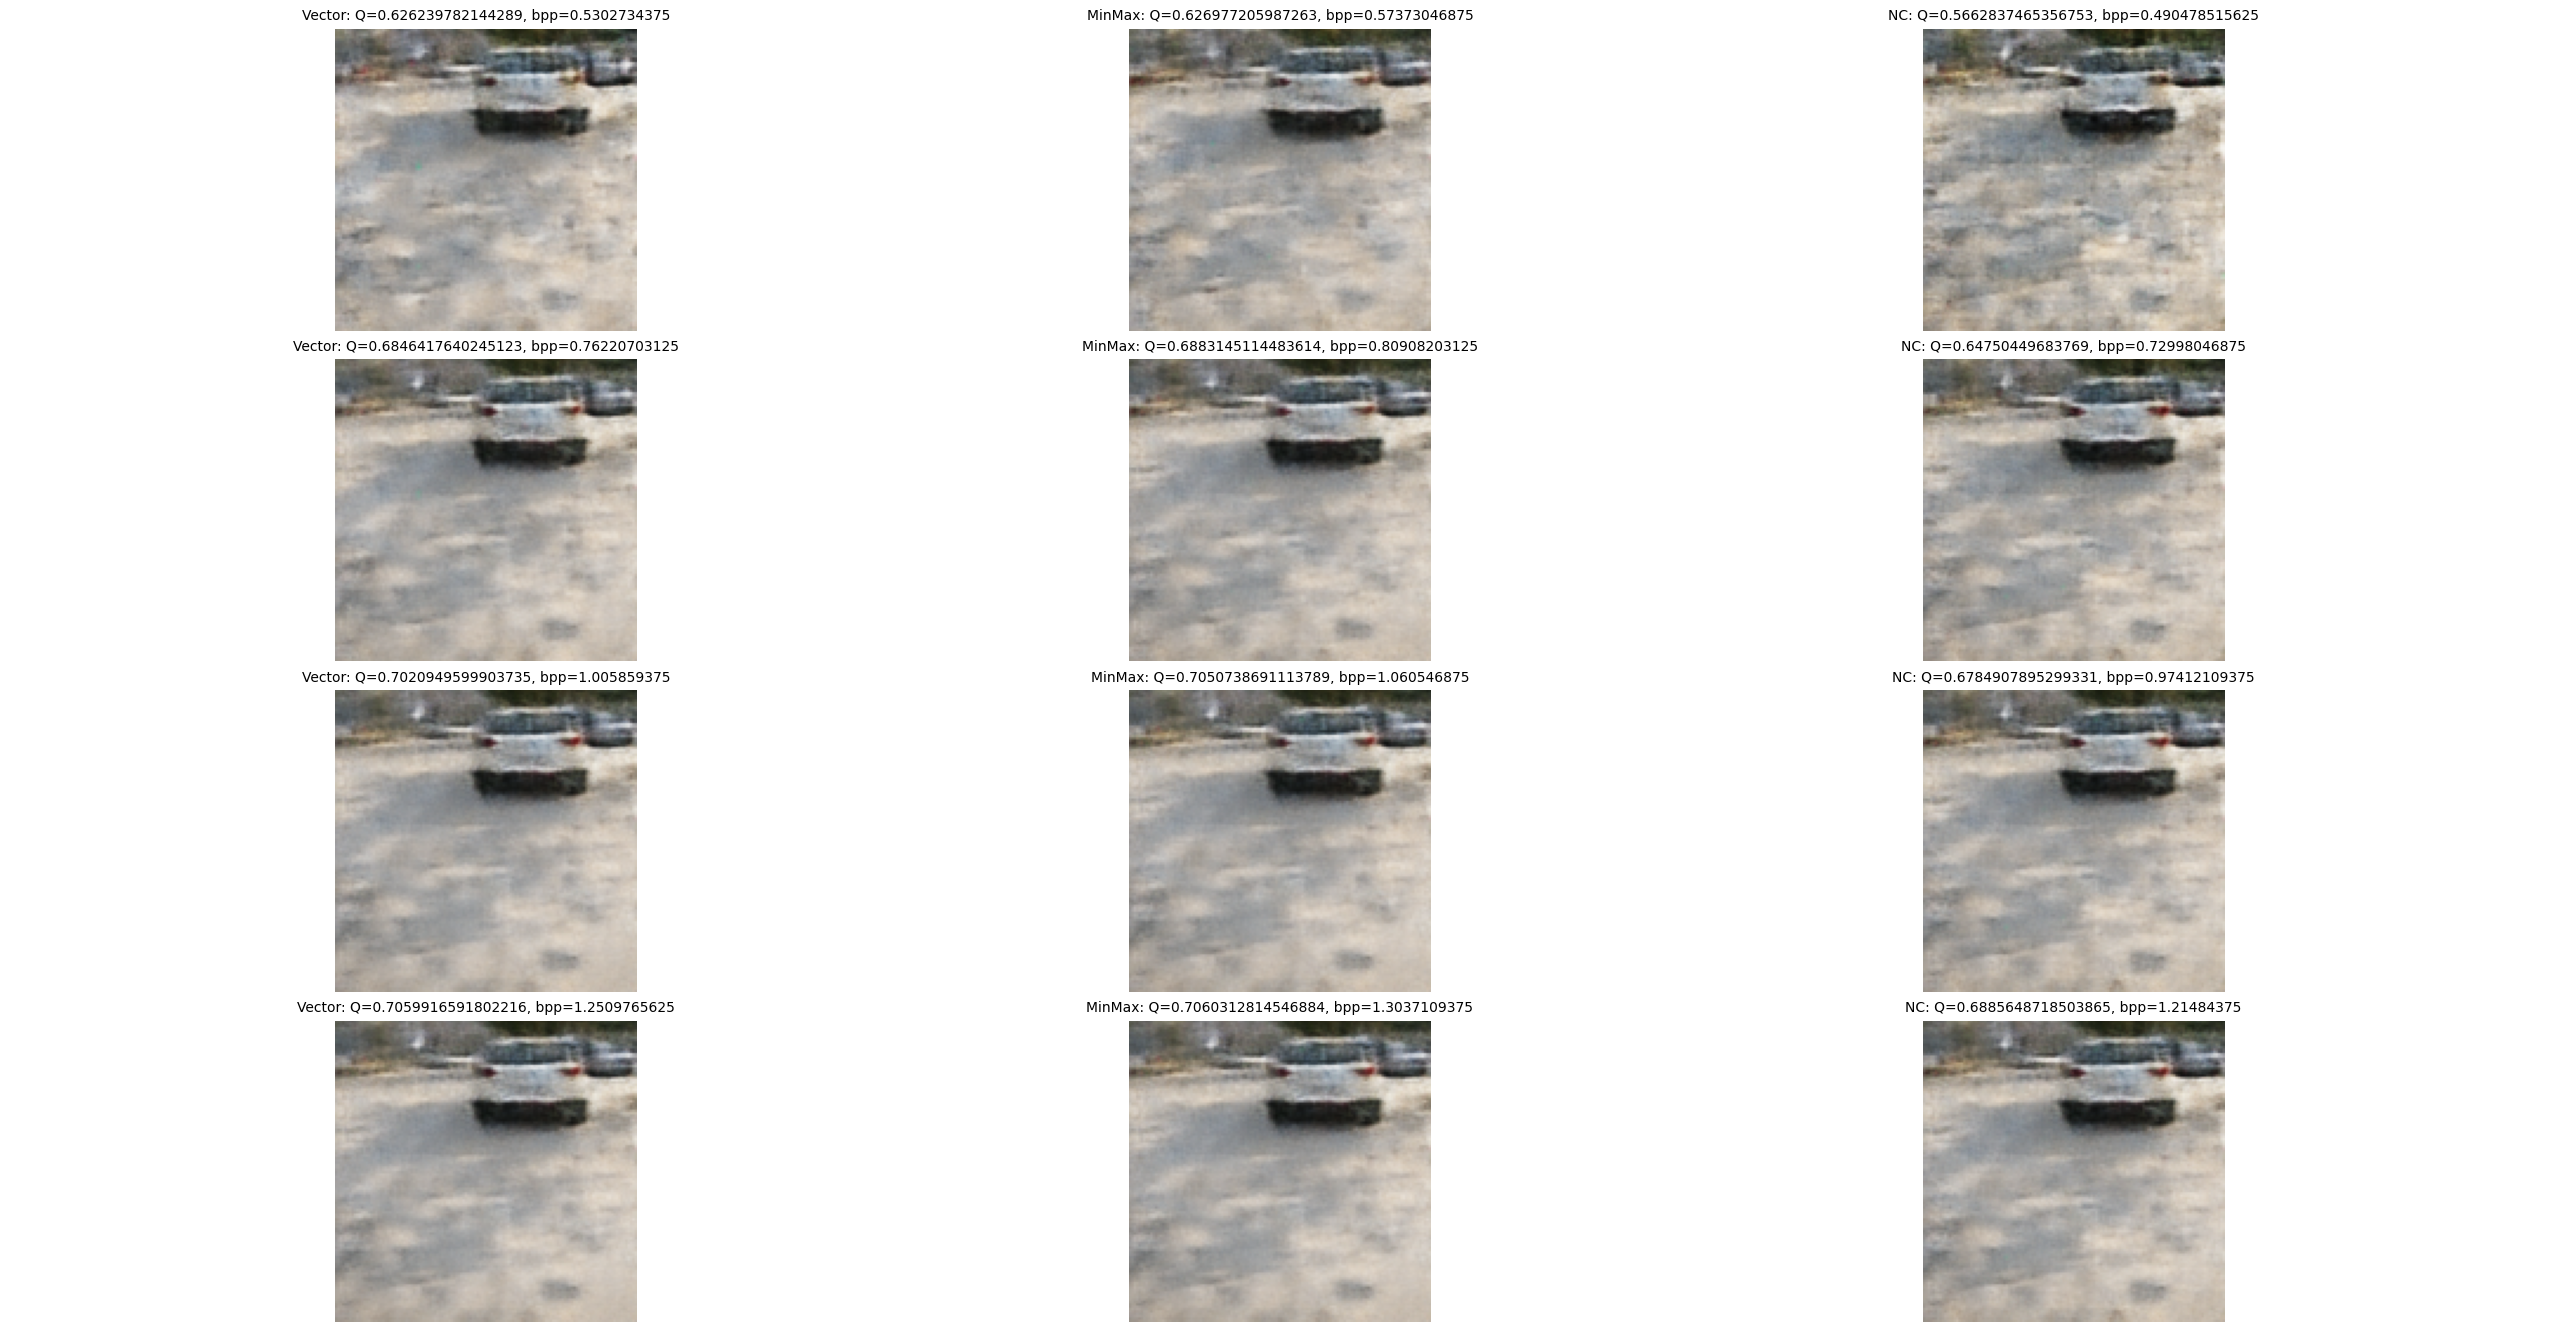
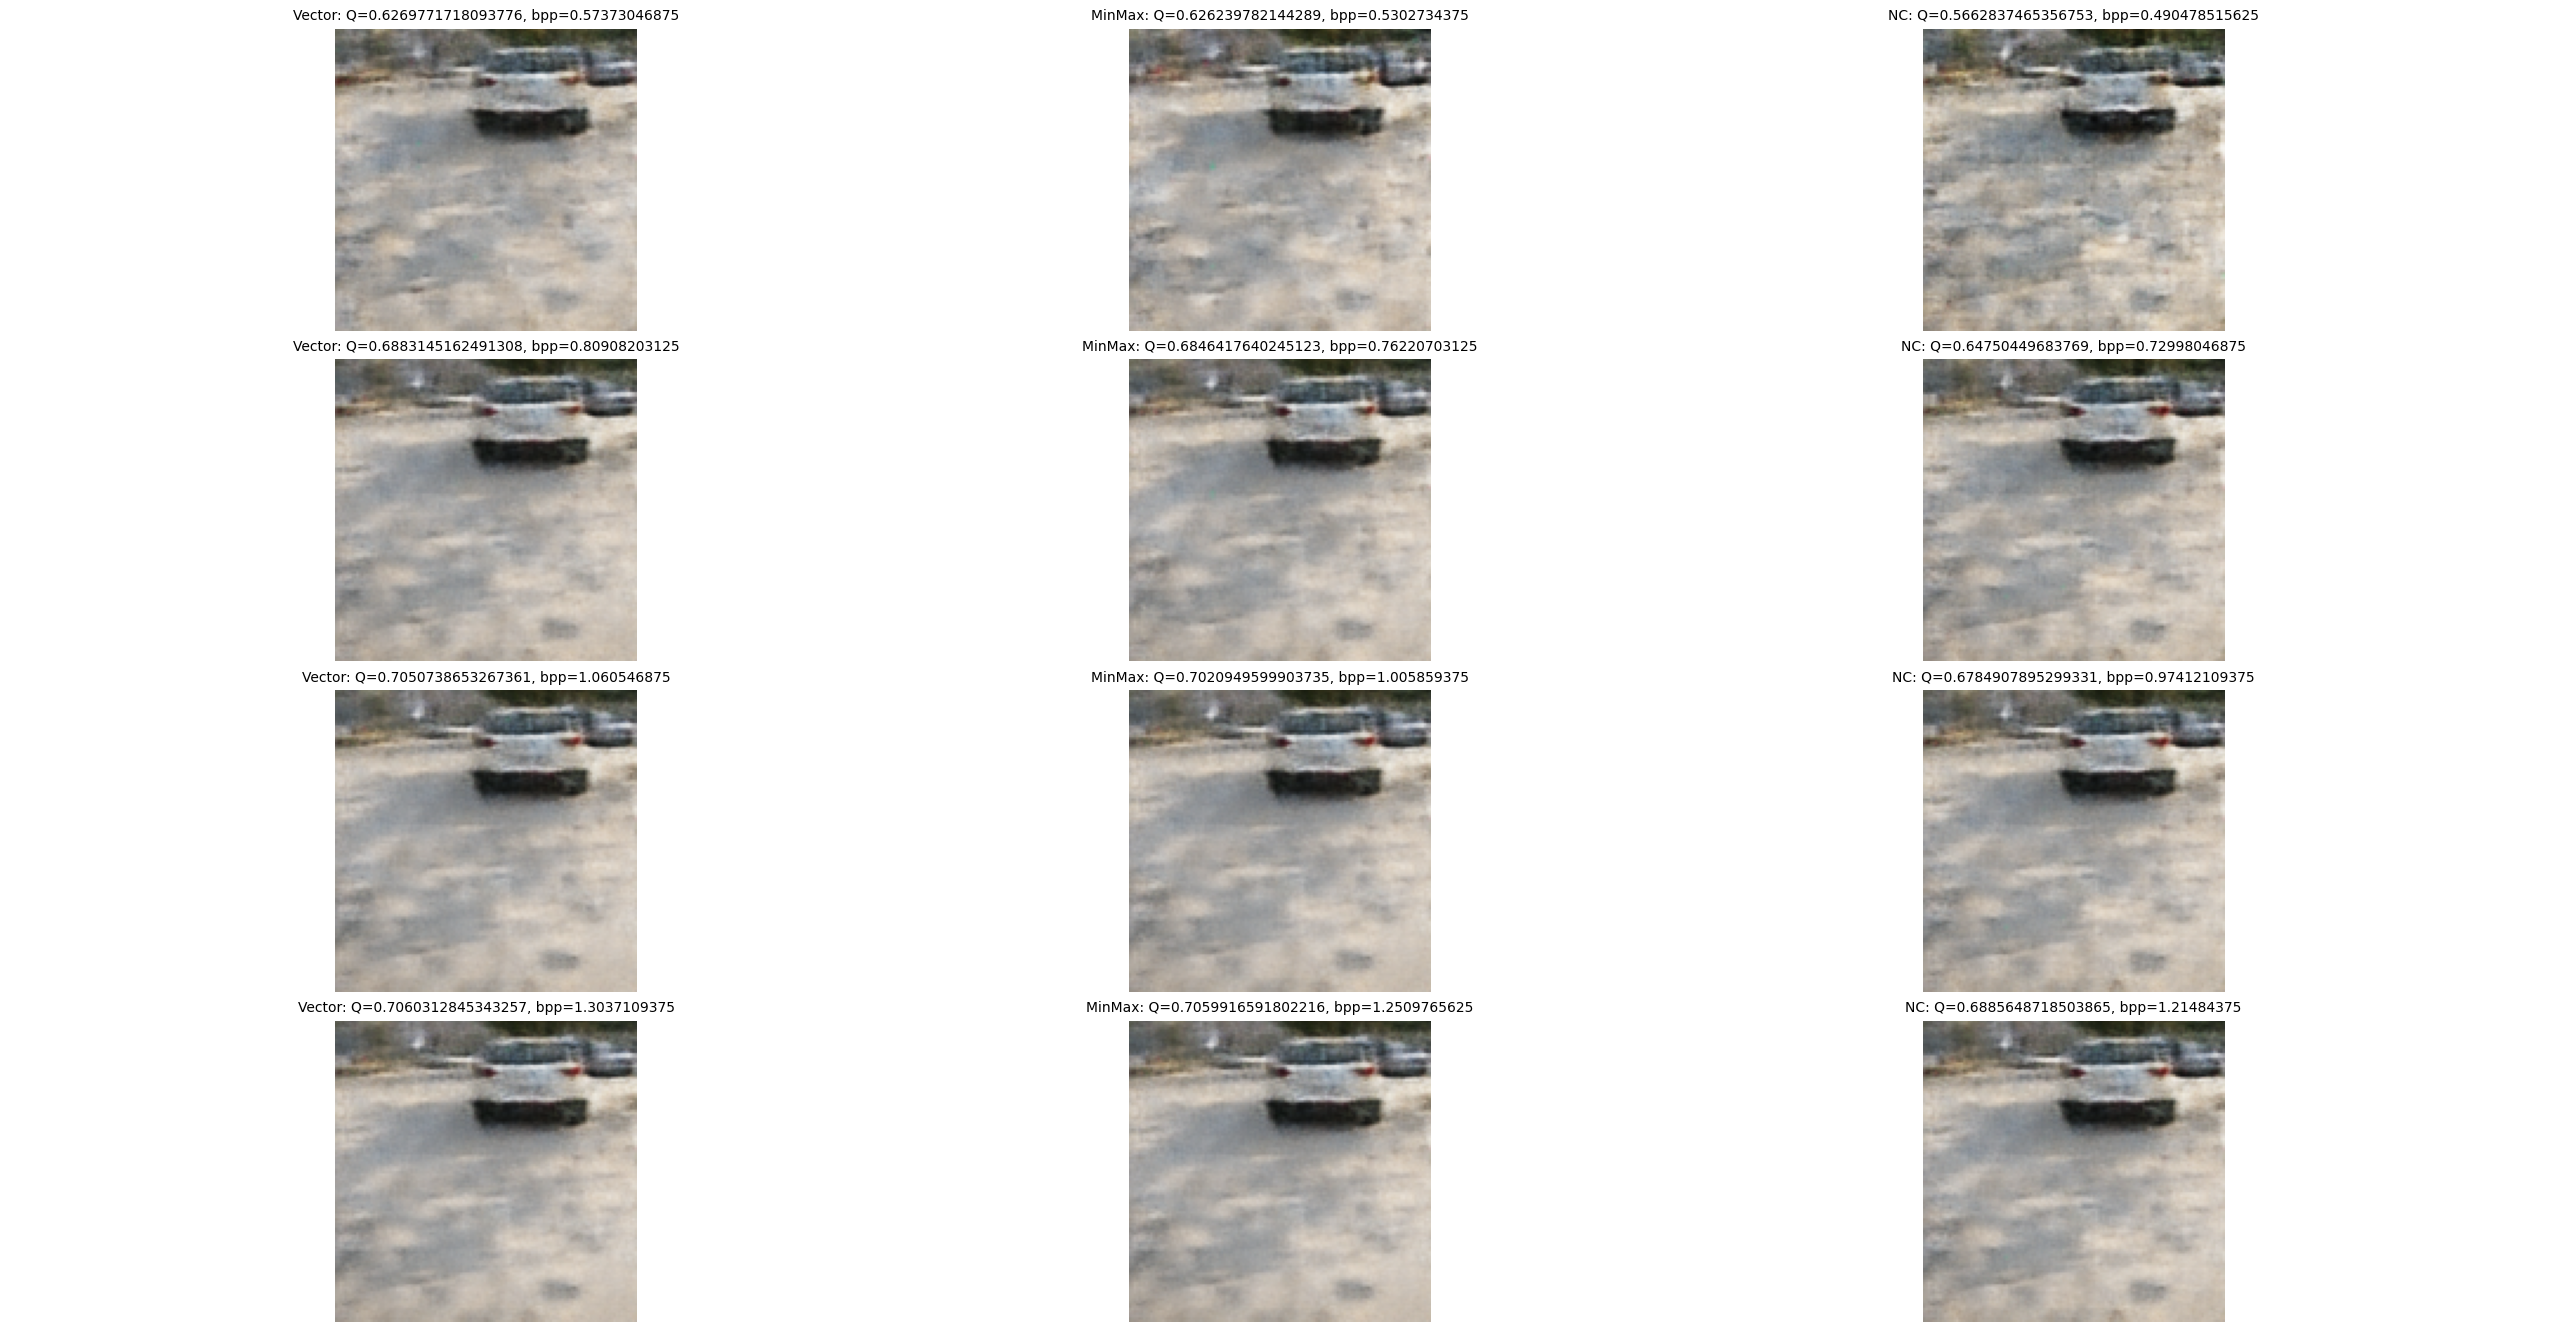
changed some plots

diff --git a/launch_this.py b/launch_this.py
@@ -123,7 +123,7 @@ import matplotlib.pyplot as plt
 import numpy as np
 from matplotlib.colors import to_rgba
 
-def plot_ssim_bpp(testfolder, trainfolder, bees, NumImagesToShow=5):
+def plot_ssim_bpp(testfolder, trainfolder, bees):
     """
     Построение графика среднего SSIM/bpp для AE2, JPEG и предложенного кодека.
     """
@@ -136,7 +136,6 @@ def plot_ssim_bpp(testfolder, trainfolder, bees, NumImagesToShow=5):
     results = {'AE1_min_max': [], 'AE2_min_max': [], 'AE1_vector': [], 'AE2_vector': [],'AE1_old': [], 'AE2_old': [], 'JPEG': []}
 
     for b in bees:
-        print("BEEEEE", b)
         bpp2, _, decoded_imgsQ2 = NeuralCompressor_min_max(encoder2, decoder2, b=b)
         avg_ssim_bpp_ae2 = calculate_ssim_bpp(xtest[:NumImagesToShow], decoded_imgsQ2, bpp2)
         results['AE2_min_max'].append((b, avg_ssim_bpp_ae2))
@@ -149,6 +148,7 @@ def plot_ssim_bpp(testfolder, trainfolder, bees, NumImagesToShow=5):
         jpeg_ssim_bpp = []
         for i in range(NumImagesToShow):
             _, JPEG_bpp, JPEG_ssim = JPEGRDSingleImage(xtest[i, :, :, :], b, i)
+            print("QIAAAL:", _)
             jpeg_ssim_bpp.append(JPEG_ssim / JPEG_bpp)
         results['JPEG'].append((b, np.mean(jpeg_ssim_bpp)))
 
@@ -207,6 +207,9 @@ def plot_ssim_bpp(testfolder, trainfolder, bees, NumImagesToShow=5):
     plt.grid(True, which='both', linestyle='--', linewidth=0.5, alpha=0.7)
     plt.show()
 
+
+
+
 def display_compressed_images(enc, dec, bees=[2, 3, 4, 5]):
     """
     Отображает изображения для методов NeuralCompressor_vector, NeuralCompressor_min_max,
@@ -216,8 +219,8 @@ def display_compressed_images(enc, dec, bees=[2, 3, 4, 5]):
 
     for i, b in enumerate(bees):
         # Вызываем ваши функции для каждого метода
-        bpp_vec,  img_vec, Q_vec = NeuralCompressor_min_max(enc, dec, b)
-        bpp_minmax, img_minmax, Q_minmax  = NeuralCompressor_vector(enc, dec, b)
+        bpp_vec,  img_vec, Q_vec = NeuralCompressor_vector(enc, dec, b)
+        bpp_minmax, img_minmax, Q_minmax  =NeuralCompressor_min_max(enc, dec, b)
         bpp_nc, img_nc, Q_nc = NeuralCompressor(enc, dec, xtest, b=b)
         
         # Отображаем изображения
@@ -239,7 +242,7 @@ def display_compressed_images(enc, dec, bees=[2, 3, 4, 5]):
 
 
 if __name__ == '__main__':
-    show_img = True
+    show_img = False
     xtest = LoadImagesFromFolder(testfolder)
     xtest = xtest / 255
     
